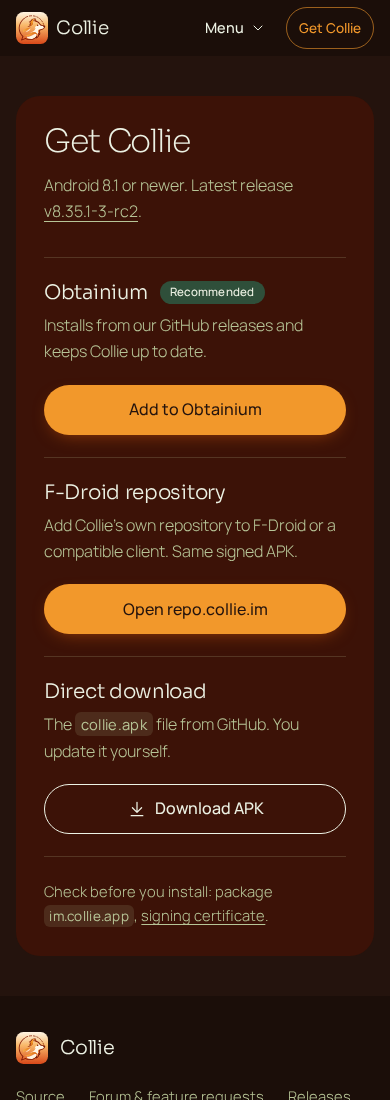
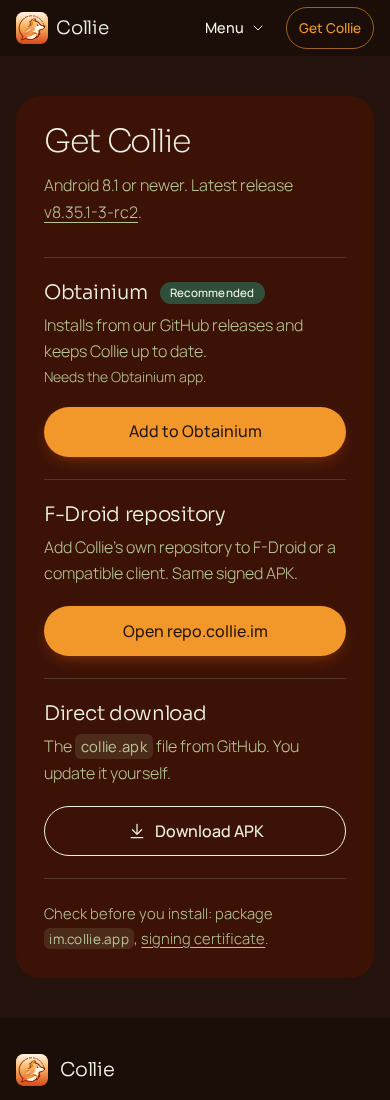
Record the compact phone hero and clearer installation evidence
Refresh affected page tops, facts, introductions, roadmap and download views. Preserve measured message positions, touch sizes, prerequisite growth and unchanged wider hero geometry for independent review.

Layer: website

diff --git a/docs/screenshots/pr-95/README.md b/docs/screenshots/pr-95/README.md
@@ -1,32 +1,33 @@
 # Current website review evidence
 
-Implementation source is signed 0456fa475b76111a94c52949e2381f13a2ed8108; native assets/provenance are signed b3b4857fe6ebc0338f732cd9129c8b1bc94880f0. Review the containing evidence commit as one stable candidate. No rating is supplied by the implementation owner.
+Implementation source is signed 53465c289ae5fc5487ea1900132a08e27c7569e0; native assets/provenance are signed b3b4857fe6ebc0338f732cd9129c8b1bc94880f0. Review the containing evidence commit as one stable candidate. No rating is supplied by the implementation owner.
 
 ## Current views
 
-All paths below are in this directory. The eight hero/page-top views are freshly rendered after adding the genuine chat. Unchanged component views retain their original source provenance: feature/Upcoming views from b7b32031a75c, community from 4a954f19b0b0, downloads/footer from 2917bdc27ad5. Their component source/appearance is unchanged by this image-only hero pass; their document offsets are reported separately.
+All paths below are in this directory. The current phone page tops, desktop facts, Upcoming, downloads and phone introductions are freshly rendered after this focused clarity pass. Unchanged component views retain their original source provenance: feature views from b7b32031a75c, community from 4a954f19b0b0, downloads/footer from 2917bdc27ad5. Their component source/appearance is unchanged by this image-only hero pass; their document offsets are reported separately.
 
 | View | File | Actual iframe CSS viewport / PNG dimensions |
 | --- | --- | --- |
 | Desktop hero | [light](desktop-light.png) · [dark](desktop-dark.png) |1280×800|
 | Phone hero, scrolled to phones | [light](mobile-light.png) · [dark](mobile-dark.png) |390×844|
 | Narrow hero/curve | [hero-narrow-light.png](hero-narrow-light.png) |320×844|
-| Actual phone page top | [page-top-mobile-light.png](page-top-mobile-light.png) |390×844, scrollY0|
-| Actual narrow page top | [page-top-narrow-light.png](page-top-narrow-light.png) |320×844, scrollY0|
-| Actual tablet page top | [page-top-tablet-light.png](page-top-tablet-light.png) |768×1024, scrollY0|
+| Actual phone page top | [page-top-mobile-light.png](page-top-mobile-light.png) |390×844, scrollY 0|
+| Actual narrow page top | [page-top-narrow-light.png](page-top-narrow-light.png) |320×844, scrollY 0|
+| Actual tablet page top | [page-top-tablet-light.png](page-top-tablet-light.png) |768×1024, scrollY 0|
 | Features | [desktop](features-desktop-light.png) · [tablet](features-tablet-light.png) |1280×1000 /768×1300|
 | Phone features | [390](features-mobile-light.png) · [320](features-narrow-light.png) |390×1100 /320×1300|
-| Upcoming plans | [desktop light](upcoming-desktop-light.png) · [phone dark](upcoming-mobile-dark.png) |1280×900 /390×1100|
+| Upcoming plans | [desktop light](upcoming-desktop-light.png) · [phone dark](upcoming-mobile-dark.png) · [narrow light](upcoming-narrow-light.png) |1280×900 /390×1100 /320×1250|
 | Community/help | [desktop light](community-desktop-light.png) · [phone dark](community-mobile-dark.png) · [narrow light](community-narrow-light.png) |1280×900 /390×1300 /320×1500|
 | Downloads/footer | [desktop light](downloads-footer-desktop-light.png) · [dark](downloads-footer-desktop-dark.png) |1280×1100|
-| Phone downloads | [light](downloads-mobile-light.png) · [dark](downloads-mobile-dark.png) |390×1100|
+| Phone downloads | [light](downloads-mobile-light.png) · [dark](downloads-mobile-dark.png) · [narrow](downloads-narrow-light.png) |390×1100 /320×1250|
+| Current phone introduction | [390](about-mobile.png) · [320](about-narrow-light.png) |390×844 /320×844|
 | Phone footer | [light](footer-mobile-light.png) · [dark](footer-mobile-dark.png) |390×844|
 
-These are actual browser renders of the existing static build HTML/CSS with original font/image bytes embedded in fixed-size iframes through T3 html_preview. They are source renders, not live-tab screenshots. Only resource URLs are embedded; the helper waits for fonts/visible images, scrolls to the existing section and finishes native CSS animations. No content/layout reconstruction or recoloring. Native overlay scrollbars, DPR 1: usable width equals actual innerWidth. Every current hero view reported its requested width, loaded fonts/images, expected light/dark media and no overflow. Phone montage views use stage top 80px to clear the 56px sticky header; page-top views are explicitly scrollY0.
+These are actual browser renders of the existing static build HTML/CSS with original font/image bytes embedded in fixed-size iframes through T3 html_preview. They are source renders, not live-tab screenshots. Only resource URLs are embedded; the helper waits for fonts/visible images, scrolls to the existing section and finishes native CSS animations. No content/layout reconstruction or recoloring. Native overlay scrollbars, DPR 1: usable width equals actual innerWidth. Every current hero view reported its requested width, loaded fonts/images, expected light/dark media and no overflow. Phone montage views use stage top 80px to clear the 56px sticky header; page-top views are explicitly scrollY 0.
 
 [render-source.py.txt](render-source.py.txt) preserves the exact rendering helper. It reads the existing build, not a mockup. The conversation's natural 540×1080 image renders 205.156×410.312px at 1280 and 153.094×306.188px at 390, preserving its ratio and complete header/composer without stretching or cropping. The rear encryption image remains 540×1200, likewise preserving its natural ratio.
 
-Earlier raw browser exports shifted orange into pink, including in their PNG pixels. This source-render path preserves actual source RGB: desktop primary 242/152/43 (#F2982B) and bark 36/19/13 (#24130D), measured with ffmpeg rgb24 crop/od. No source colors were changed to compensate. Older supporting live captures (menu, narrow header, desktop introduction, Obtainium) retain c2a7b7c647de24fa50185f84b29fe141aaa6d931 provenance. Their component source is unchanged; about-mobile/about-narrow retain valid intro composition but their partial old feature-heading pixels are superseded by current feature views. community-narrow-dark.png is historical and superseded by the current community views. Use the table above for current hero/palette/feature judgments. Live T3 snapshot/input transport later timed out across callers and disconnected; no failed call is claimed as a pass.
+Earlier raw browser exports shifted orange into pink, including in their PNG pixels. This source-render path preserves actual source RGB: desktop primary 242/152/43 (#F2982B) and bark 36/19/13 (#24130D), measured with ffmpeg rgb24 crop/od. No source colors were changed to compensate. Older supporting live captures (menu, narrow header, desktop introduction, Obtainium) retain c2a7b7c647de24fa50185f84b29fe141aaa6d931 provenance. Their component source is unchanged; about-mobile/about-narrow are freshly captured and show the current balanced feature heading at their bottom. community-narrow-dark.png is historical and superseded by the current community views. Use the table above for current hero/palette/feature judgments. Live T3 snapshot/input transport later timed out across callers and disconnected; no failed call is claimed as a pass.
 
 ## Audience and retained requirements
 
@@ -36,11 +37,13 @@ Immediately below the hero, one introduction consolidates Signal compatibility a
 
 Matrix chat and GitHub Discussions forum are prominent, with distinct chat/thread-list icons, 40px icon boxes and 22px titles against 16.8px lighter Help subheads. Bug reporting/donations retain a separate Help the project group. Actions remain underlined, with selective bold/italic emphasis.
 
+Upcoming now separates the existing nine-word first sentence into an 18px/weight 400 visual lead; the full UnifiedPush/MollySocket and linked-phone sentences remain in a quieter 16px supporting paragraph. Normalized content is identical: no fact, disclaimer, list item or URL was removed.
+
 Plans are generated from the existing upcoming-planned-features category during daily builds, priority-labelled discussions first with a separate label-derived Priority badge. The supplied snapshot has ten discussions/eight plans. The planned-work disclaimer is explicit; URLs remain unchanged. Discussion 106's title “Send a text with its own timer” was checked against its source: holding Send applies a one-time timer to one text; no duration/start/view-once claim was invented.
 
 Notifications now says “Get message alerts without Google's push service. Collie can keep its own connection open, or use UnifiedPush with a server you trust.” The UnifiedPush anchor is unchanged. Exact required link text remains “Why it matters and why we're working on making it easy.” → #upcoming. That target's existing explanation replaces the vague “but setup still takes extra steps” with “but currently needs a trusted MollySocket server.” Planned disclaimer/list/URLs are unchanged. Source verification used IncomingMessageObserver, ApplicationContext and MollySocketRepository; this is consumer wording for real behavior, not removal of the trusted-server requirement.
 
-Obtainium and F-Droid repository share primary styling; only Obtainium gets Recommended. Manual APK remains secondary. Website uses relative obtainium/ so the actual localhost CTA reaches the handoff; README uses https://collie.im/obtainium/. GitHub remains the APK update source and https://collie.im/#get the manual fallback. The verified nested-JSON APK filter was not altered. Actual app import/install through Obtainium was not performed.
+Obtainium and F-Droid repository share primary styling; only Obtainium gets Recommended. The short secondary note “Needs the Obtainium app.” now states its prerequisite; existing description/button/handoff remain unchanged. Manual APK remains secondary. Website uses relative obtainium/ so the actual localhost CTA reaches the handoff; README uses https://collie.im/obtainium/. GitHub remains the APK update source and https://collie.im/#get the manual fallback. The verified nested-JSON APK filter was not altered. Actual app import/install through Obtainium was not performed.
 
 ## Genuine native images and composition
 
@@ -56,6 +59,21 @@ Fastlane first three are chat/lock/encryption. Existing privacy moves to 4.png; 
 
 See [conversation-capture.md](conversation-capture.md) for exact commands, matching APK/helper hashes, UI dumps and security proof, and [encryption-capture.md](encryption-capture.md) for the original viewport record. Use only offline-demo-security.kt.txt for future fixture reproduction; historical pre-flush snapshots are provenance-only and clearly superseded.
 
+## Current focused phone clarity measurements
+
+“Installs alongside Signal” is removed from the hero at every width. Only “Free and open source” and “Android 8.1 or newer” remain; no replacement installer-name fact was added. Coexistence/two-app/package-name marketing is absent; the ordinary “alongside” in the unrelated Upcoming sentence and the installation verification package ID are intentionally retained.
+
+Headline and lede wording, weight/line-height ratio, orange second sentence, native images and phone composition are unchanged. Phone-only sizing/gaps now make the real messages appear earlier:
+
+| Actual CSS width | Headline / line height / lines | Alex header text Y | First message text Y | Facts / font | Primary / secondary target |
+| --- | --- | --- | --- | --- | --- |
+|320|30 /32.4px /4|626.84|720.85|2 rows /14.4px|288×50 /288×44px|
+|390|32 /34.56px /4|586.64|705.01|1 row /14.4px|358×50 /358×44px|
+
+Y is document CSS pixels at scrollY 0 in the accurate overlay-scrollbar renderer, using actual front-image geometry and matching native UI text bounds. Fixed phone gaps: header→headline 20px, headline→lede 20, lede→buttons 24, button rows 12, buttons→facts 20, facts→stage 16. Lede is 16px/26.4px. Focus-ring CSS is unchanged. At 768 and 1280, measured headline, lede, actions, stage and front-image rectangles/fonts are exactly identical to the prior candidate; only the third fact is deliberately absent.
+
+At 390 the Get panel grows 859.52→881.52px, exactly 22px, from the prerequisite's 20px line plus 2px margin. Existing card copy/Recommended/primary styles/handoff are unchanged; no extra auto-update promise. All six feature descriptions, community, legal line and planned disclaimer/list/URLs are byte-identical. This pass does not tighten the desktop feature card or alter native assets, metadata, local main or native proof.
+
 ## Layout and validation evidence
 
 Below 600px, the encryption lead is followed by five visible compact feature items: 40px icon beside title, body aligned under title and hairline separators. No hidden descriptions or new padding. Heading balances “Locked when” / “you step away” at 320/390/768/1280; 320 wrap is unchanged. Desktop body/facts share 640.66px, card remains 714.66×408 and longest body line ends 51.66px from its edge.
@@ -64,15 +82,15 @@ Current overlay-scrollbar measurements:
 
 | Width / usable width | Five-item region | Downloads document Y | Overflow |
 | --- | --- | --- | --- |
-|320 /320|685.63px|5337.80px|none|
-|390 /390|566.69px|4785.45px|none|
-|768 /768|644px|4197.83px|none|
-|1280 /1280|668px|3689.45px|none|
+|320 /320|685.63px|5137.02px|none|
+|390 /390|566.69px|4649.31px|none|
+|768 /768|644px|4203.81px|none|
+|1280 /1280|668px|3695.44px|none|
 
-The 390 compact region is unchanged by the final notification wording; 320 uses one extra 24px text line. Hero imagery does not alter downstream layout. Phone intro heading is 24px against 32px features (75%). Notification action is 306×48px at 390 and 236×48px at 320, above 24px. Earlier live T3 reserved 15px for a scrollbar: its390 region 614.73px was measured against real 978px baseline; that environment is distinct, not substituted for current source-render widths.
+The 390 compact region is unchanged by the final notification wording; 320 uses one extra 24px text line. The phone-only hero compaction moves downstream sections earlier; the desktop/tablet hero geometry is unchanged. Phone intro heading is 24px against 32px features (75%). Notification action is 306×48px at 390 and 236×48px at 320, above 24px. Earlier live T3 reserved 15px for a scrollbar: its390 region 614.73px was measured against real 978px baseline; that environment is distinct, not substituted for current source-render widths.
 
 The56px page-level sticky narrow header retains Menu/Get Collie and all five section links. Prior native Tab→Menu, Enter/Escape, outside/link closing and heading-clearance checks apply to unchanged navigation source; heading tops were 88–134px with header bottom 56px. Later timed-out pointer/key transport did not reach DOM and is not new successful interaction evidence. Native source disclosure is focusable/underlined, 44px high with 8px chevron gap. Previous cream-strip checks remain valid: full-width 40px bands after the curve were exactly 249/251/244 at 390/320. No CSS changed in this image pass.
 
 Fourteen website tests pass (category/priority/title mapping/escaping/API failures/pagination/safe paths/Obtainium), the Fastlane metadata validator passes, and git diff --check passes. Native seed, offline centering and durable restore each collected/passed 1 test. Selected computed-CSS contrast evidence only: light badge 14.20/menu 15.69/facts 14.20; dark badge 14.20/menu 16.55/facts 8.01. No whole-site AA claim. The Impeccable detector used its limited fallback because parser modules are absent; no full automated audit is claimed. Impeccable 4.1.1 was already installed for Codex and used; no installation/download.
 
-Remaining design tradeoffs are visible in the images: long mobile hero before the full phones, a large genuine native profile header in the demo chat, rear-screen overlap and the technical setup detail in Upcoming. No independent approval is implied by passing checks. The requested localhost:8879 server/shared caches remain; temporary Android test sources, 47 generated build/cache directories and owned AVD/runtime were removed after exact proof was saved. Unrelated emulators/worktrees and user files were untouched.
+Remaining design tradeoffs are visible in the images: a large genuine native profile header in the demo chat, rear-screen overlap and the technical setup detail in Upcoming. No independent approval is implied by passing checks. The requested localhost:8879 server/shared caches remain; temporary Android test sources, 47 generated build/cache directories and owned AVD/runtime were removed after exact proof was saved. Unrelated emulators/worktrees and user files were untouched.

diff --git a/docs/screenshots/pr-95/completion-audit.md b/docs/screenshots/pr-95/completion-audit.md
@@ -4,12 +4,12 @@ This is a factual requirement audit, not a design rating. Source and current ima
 
 | Requirement | Evidence/current state |
 | --- | --- |
-| Ordinary messenger audience and skimming | Patch-reading pitch removed; mostly approved factual paragraphs retained. Intro is one reading group immediately after hero; phone feature recap removed. |
+| Ordinary messenger audience and skimming | Patch/coexistence/two-app marketing removed, including the final hero coexistence fact at all widths. Two useful hero facts remain. Phone-only hero compaction brings actual first-message text to 705px at 390/721px at 320 without rewriting headline/lede. |
 | Signal/Molly consolidation | Intro contains compatibility, foundations and optional source/security details. Side by side and account/two-app explanations are absent. The installation verification still names the package as before. |
 | Community/help | Matrix and Discussions have distinct chat/forum icons and visible actions. Help the project remains a separate bug-report/donation group. |
 | Exact notification link and emphasis | Required sentence/UnifiedPush anchor remain unchanged. Feature now describes alerts/connection plainly; precise trusted MollySocket requirement is at Upcoming. Selective emphasis/underlined links remain. |
 | Discussion-generated plans | Existing category only; eight plans in the supplied snapshot, label-priority first, separate badge, explicit planned disclaimer. Daily workflow uses 06:17 UTC and read permissions. Discussion106 wording was checked against the public source; URL unchanged. |
-| Installation options | Obtainium/F-Droid share primary styling; Recommended appears only once; manual APK remains secondary. Website's actual CTA reaches its local handoff; README retains absolute Collie URL. GitHub update source, manual collie.im/#get fallback and tested nested-JSON filter are unchanged. |
+| Installation options | Short secondary Obtainium prerequisite note adds 22px at 390; existing buttons/copy/handoff retained.  Obtainium/F-Droid share primary styling; Recommended appears only once; manual APK remains secondary. Website's actual CTA reaches its local handoff; README retains absolute Collie URL. GitHub update source, manual collie.im/#get fallback and tested nested-JSON filter are unchanged. |
 | Fresh native screenshots | Genuine offline Alex/six-message chat and corrected encryption captured at native 1080×2160. Seed/centering/durable restore each passed 1 test, no skip; encryption geometry 336/337px with title below bars. Cold production PID 6443/task 18 showed SECURE. Website encryption retains original 1080×2400 source/540×1200 derivative and 450/450px geometry. Distinct hashes/viewports are documented; no fabricated UI. |
 | Actual hero/current pixels | Genuine conversation front, original corrected encryption left, locked screen right. Natural image ratios preserve front header/composer; rear title/controls are partially overlapped, never claimed fully unobscured. Chat PNG 28ade62d…/WebP b94444ee…; new Fastlane encryption b85f15db…; original website encryption 6862fbc6…. |
 | Brand/live workflow | Solid hero; no CSS radial gradients. Fonts/palette/section order unchanged; selected real hero screens updated. Existing localhost:8879 server retained. Impeccable 4.1.1 was present and used; no install/download. |
@@ -22,6 +22,10 @@ This is a factual requirement audit, not a design rating. Source and current ima
 
 | Finding | Disposition/confidence | Scoped result |
 | --- | --- | --- |
+| Hero coexistence fact | Valid, high | Removed at all widths; unrelated Upcoming “alongside” and installation verification package ID retained. |
+| Obtainium prerequisite missing upfront | Valid, high | Needs the Obtainium app note adds exactly 22px to 390 Get panel; no new update promise. |
+| Phone hero hides real conversation below fold | Valid, high | Headline 30/32px, lede 16px, reduced scoped gaps; first message 721/705px at 320/390, fact rows 2/1, hero targets 50/44px. Wider typography/image geometry unchanged. |
+| Upcoming reads as one dense paragraph | Valid, high | Existing nine-word sentence is visual lead; full supporting sentences, planned disclaimer/list/URLs unchanged. |
 | Notification terminology | Valid, high | Plain connection/trusted-server feature copy verified against native source. Exact why/UnifiedPush anchors retained; MollySocket requirement moved to existing Upcoming sentence. |
 | Featured heading orphan | Valid, high | text-wrap:balance yields Locked when / you step away at 320/390/768/1280;320 wrap unchanged, no card/facts change. |
 | Desktop lead body cap | Valid, high | Above 860px body 460 to 640.66px; card remains 408px; text-to-card-edge 51.66px. |
